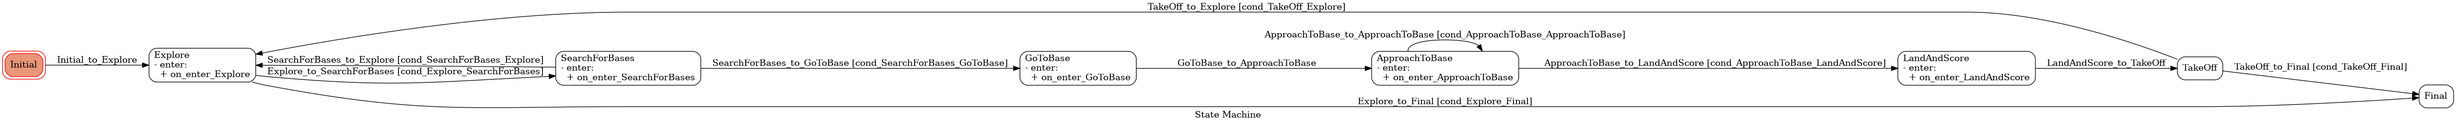
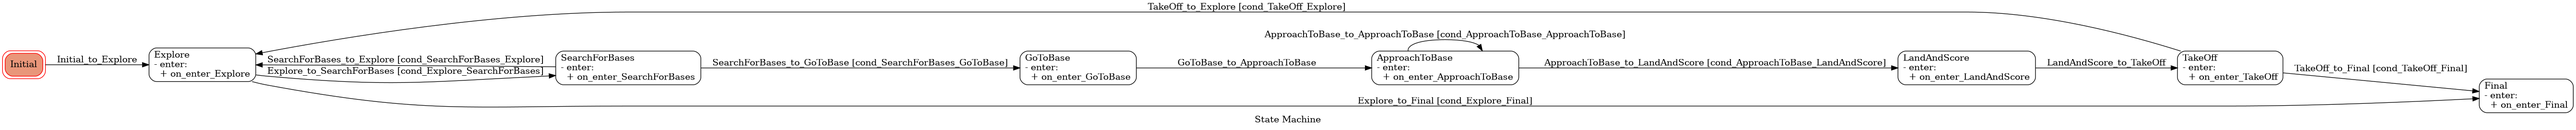
Fix Phase 1 problems

diff --git a/Pytransitions/ROS2JJ/src/FRTL/FRTL/FRTL.py b/Pytransitions/ROS2JJ/src/FRTL/FRTL/FRTL.py
@@ -5,6 +5,9 @@ from std_msgs.msg import UInt8
 import auxFuncs
 from dataclasses import dataclass
 
+global TARGET_HEIGHT
+TARGET_HEIGHT = 4
+
 @dataclass
 class Position:
     X: float
@@ -42,7 +45,7 @@ class Phase1(GraphMachine):
         {'trigger': 'TakeOff_to_Final', 'source': 'TakeOff', 'dest': 'Final', 'conditions': 'cond_TakeOff_Final'},
     ]
 
-    def __init__(self, node: Node, uav):    
+    def __init__(self, node: Node, uav, home_pos):    
         super().__init__(
             model=self,
             name="Phase1",
@@ -55,6 +58,8 @@ class Phase1(GraphMachine):
         )
 
         self.uav = uav
+        self.targetHeight = TARGET_HEIGHT
+        self.home_pos = home_pos
         self.finished = False
         self.node = node
         self.start_time = time.time()
@@ -87,18 +92,29 @@ class Phase1(GraphMachine):
         auxFuncs.move_to_relative(self.uav, self.start_time, pos.X, pos.Y, pos.Z, 0)
 
     def SearchForBases(self):
-        Targets = [
-            Target(id=1, pos=Position(4.0, 4.0, 0.0)),
-            Target(id=2, pos=Position(2.5, 2.0, 0.0)),
-            Target(id=3, pos=Position(-2.3, 1.0, 0.0)),
-            Target(id=4, pos=Position(3.0, -1.5, 0.0)),
-            Target(id=5, pos=Position(0.5, 3.2, 0.0)),
-        ]
-        for base in Targets:
-            self.bases.append(base)
+        if self.visitedBases < 1:
+            Targets = [
+                Target(id=1, pos=Position((4.0 + self.dronePos.X), (4.0 + self.dronePos.Y), 0.0)),
+                Target(id=2, pos=Position((-2.5 + self.dronePos.X), (3.90 + self.dronePos.Y), 0.0)),
+                Target(id=3, pos=Position((4.0 + self.dronePos.X), (-3 + self.dronePos.Y), 0.0)),
+                Target(id=4, pos=Position((-2.5 + self.dronePos.X), (-2.5 + self.dronePos.Y), 0.0)),
+                Target(id=5, pos=Position((2.0 + self.dronePos.X), (2.0 + self.dronePos.Y), 0.0)),
+            ]
+            for base in Targets:
+                self.bases.append(base)
     
     def SearchNearestBase(self):
-        self.basePos = self.bases[self.visitedBases].pos
+        X = self.bases[self.visitedBases].pos.X - self.dronePos.X
+        Y = self.bases[self.visitedBases].pos.Y - self.dronePos.Y
+        Z = self.bases[self.visitedBases].pos.Z
+
+        basePosError = Position(X , Y, Z)
+
+        print(f"dronePos: {self.dronePos}")
+        print(f"basePos: {self.basePos}")
+        print(f"basePosError: {basePosError}")
+
+        self.basePos = basePosError
     
     def updateDronePos(self):
         try:
@@ -114,6 +130,12 @@ class Phase1(GraphMachine):
 
     def calcDist(self, basePos: Position, dronePos: Position):
         return math.sqrt(
+        (basePos.X) ** 2 +
+        (basePos.Y) ** 2
+    )
+
+    def calcDist2(self, basePos: Position, dronePos: Position):
+        return math.sqrt(
         (basePos.X - dronePos.X) ** 2 +
         (basePos.Y - dronePos.Y) ** 2
     )
@@ -122,8 +144,8 @@ class Phase1(GraphMachine):
         closestBaseID = 0
         dist = 9999999
         for base in self.bases:
-            auxDist = self.calcDist(base.pos, current_position)
-            if dist < auxDist:
+            auxDist = self.calcDist2(base.pos, current_position)
+            if dist > auxDist:
                 dist = auxDist
                 closestBaseID = base.id
             
@@ -193,23 +215,24 @@ class Phase1(GraphMachine):
         pass
 
     def on_enter_SearchForBases(self):
-        self.node.get_logger().warn("on_enter_SearchForBases")
+        self.node.get_logger().info("on_enter_SearchForBases")
         self.SearchForBases()
 
     def on_enter_GoToBase(self):
-        self.node.get_logger().warn("on_enter_GoToBase")
+        self.node.get_logger().info("on_enter_GoToBase")
         self.basePos = self.bases[self.visitedBases].pos
         self.move(self.basePos)
         time.sleep(1)
 
     def on_enter_ApproachToBase(self):
-        self.node.get_logger().warn("on_enter_ApproachToBase")
-        self.SearchNearestBase()
+        self.node.get_logger().info("on_enter_ApproachToBase")
         self.updateDronePos()
+        self.SearchNearestBase()
         self.distToTarget = self.calcDist(self.basePos, self.dronePos)
+        print({self.distToTarget})
 
     def on_enter_LandAndScore(self):
-        self.node.get_logger().warn("on_enter_LandAndScore")
+        self.node.get_logger().info("on_enter_LandAndScore")
         print("Landing...")
         auxFuncs.land_and_disarm(self.uav)
         time.sleep(1)
@@ -218,16 +241,21 @@ class Phase1(GraphMachine):
         self.markVisitedBases(self.dronePos)
         self.visitedBases += 1
 
-    def on_enter_TakeOFF(self):
-        self.node.get_logger().warn("on_enter_TakeOff")
+    def on_enter_TakeOff(self):
+        self.node.get_logger().info("on_enter_TakeOff")
         print("Changing to Guided...")
         auxFuncs.set_mode(self.uav, "GUIDED")
         time.sleep(1)
         print("Arming...")
         auxFuncs.arm_drone(self.uav)
-        time.sleep(1)
+        time.sleep(2)
         print("TakingOff...")
         auxFuncs.takeoff_relative(self.uav, self.targetHeight, self.home_pos['alt'])
+
+    def on_enter_Final(self):
+        self.node.get_logger().info("on_enter_Phase1_Final")
+        self.finished = True
+    
 
     ####################### run #######################   
     def run(self):
@@ -237,7 +265,7 @@ class Phase1(GraphMachine):
                 if self.state in str(transition.get("source")):
                     if self.may_trigger(transition.get("trigger")):
                         self.tock = 0
-                        self.node.get_logger().warn(f"Transition triggered: {transition.get("trigger")}")
+                        self.node.get_logger().info(f"Transition triggered: {transition.get("trigger")}")
                         self.trigger(transition.get("trigger"))
             
             print(self.state)
@@ -246,7 +274,7 @@ class Phase1(GraphMachine):
                 print("tock -> ")
                 time.sleep(0.5) 
             else:
-                self.node.get_logger().warn("Not Tock")
+                self.node.get_logger().info("Not Tock")
 
 class FRTL(GraphMachine):
 ####################### States Declaration #######################   
@@ -286,7 +314,7 @@ class FRTL(GraphMachine):
         self.connectionState = 0 
         self.phase = 0
         self.connectionTrys = 0
-        self.targetHeight = 4
+        self.targetHeight = TARGET_HEIGHT
 
         self.trigger_start = False
 
@@ -331,34 +359,34 @@ class FRTL(GraphMachine):
 
 ####################### On_enter States #######################         
     def on_enter_Connect(self):
-        self.node.get_logger().warn("on_enter_Connect")
+        self.node.get_logger().info("on_enter_Connect")
         self.uav = auxFuncs.connect_drone(self.connection_string)
         self.connectionState = auxFuncs.wait_for_heartbeat(self.uav)
 
     def on_enter_Wait(self):
-        self.node.get_logger().warn("on_enter_Wait")
+        self.node.get_logger().info("on_enter_Wait")
         auxFuncs.set_home_to_current_position(self.uav)
         self.home_pos = auxFuncs.get_home_position(self.uav)
         print("Waiting for start...\n")
 
     def on_enter_StartEngines(self):
-        self.node.get_logger().warn("on_enter_StartEngines")
+        self.node.get_logger().info("on_enter_StartEngines")
         auxFuncs.set_mode(self.uav, "GUIDED")
         auxFuncs.arm_drone(self.uav)
         time.sleep(1)
 
     def on_enter_TakeOff(self):
-        self.node.get_logger().warn("on_enter_TakeOff")
+        self.node.get_logger().info("on_enter_TakeOff")
         auxFuncs.takeoff_relative(self.uav, self.targetHeight, self.home_pos['alt'])
 
     def on_enter_Phases(self):
-        self.node.get_logger().warn("on_enter_Phases")
+        self.node.get_logger().info("on_enter_Phases")
         if self.phase == 1:
-            mission = Phase1(self.node, self.uav)
+            mission = Phase1(self.node, self.uav, self.home_pos)
             mission.run()
 
     def on_enter_Final(self):
-        self.node.get_logger().warn("on_enter_Final")
+        self.node.get_logger().info("on_enter_Final")
         auxFuncs.close_connection(self.uav)
         self.finished = True
 
@@ -378,7 +406,7 @@ class FRTL(GraphMachine):
                 print("tock -> ")
                 time.sleep(0.5) 
             else:
-                self.node.get_logger().warn("Not Tock")
+                self.node.get_logger().info("Not Tock")
 
 class FrtlNode(Node):
     def __init__(self):
